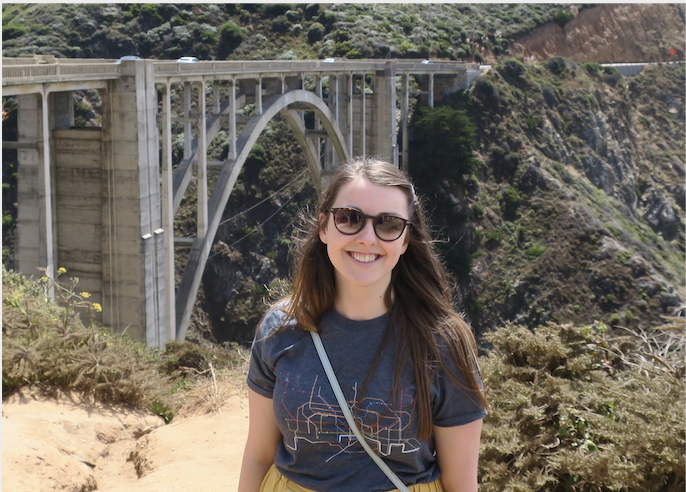
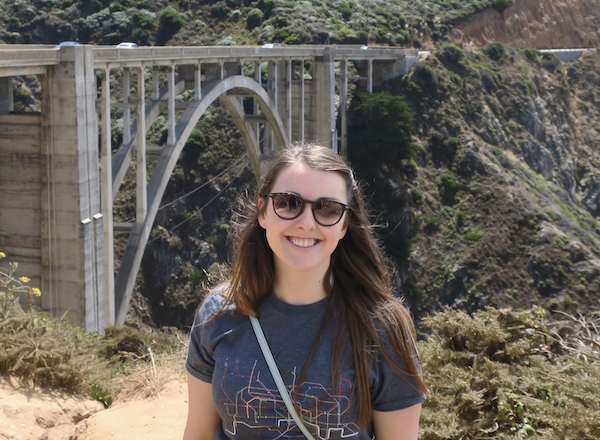
Responsive frame

diff --git a/_sass/jekyll-theme-cayman-blog.scss b/_sass/jekyll-theme-cayman-blog.scss
@@ -62,6 +62,22 @@ a {
   }
 }
 
+.resp-container {
+    position: relative;
+    overflow: hidden;
+    padding-top: 56.25%;
+}
+
+.resp-iframe {
+    position: absolute;
+    top: 0;
+    left: 0;
+    width: 100%;
+    height: 100%;
+    border: 0;
+}
+
+
 .btn {
   display:  inline-block;
   margin-bottom: 1rem;

diff --git a/index.md b/index.md
@@ -6,6 +6,7 @@
 # See: https://jekyllrb.com/docs/themes/#overriding-theme-defaults
 #
 layout: home
+tagline:
 ---
 
 Hi! I'm Maddie, an astrophysics PhD student at the University of Melbourne, Australia. I study the host galaxies of supermassive black holes in the early Universe using computer simulations and space telescopes.
@@ -16,4 +17,7 @@ More information:
 - [Conference talk slides]({{ '/talks.html' | absolute_url }})
 
 
-<iframe width='800' height='500' src='../../me.png' frameborder='0' scrolling='no' allowfullscreen align="right"></iframe>
+
+<div class="resp-container">
+    <iframe class="resp-iframe" src='../../me.png?resolution=40x80' scrolling='no' frameborder='0' allowfullscreen></iframe>
+</div>
